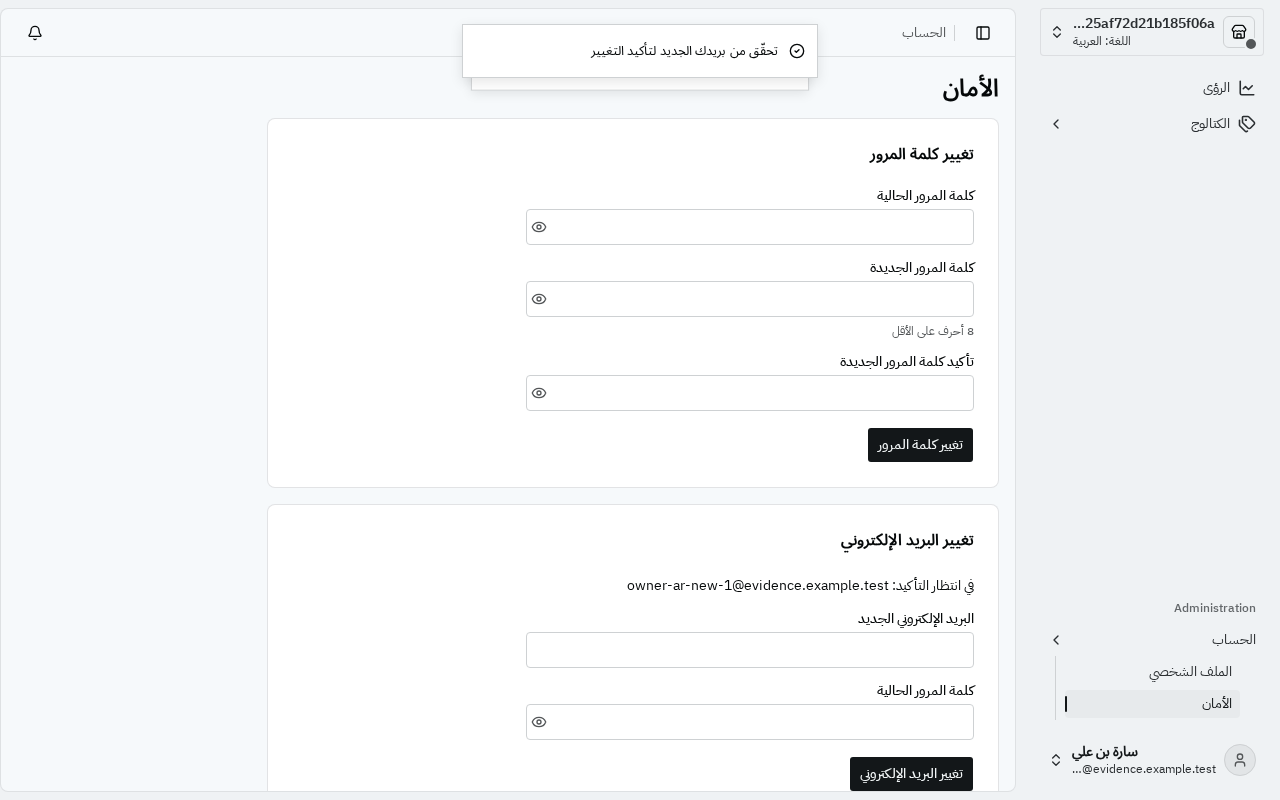
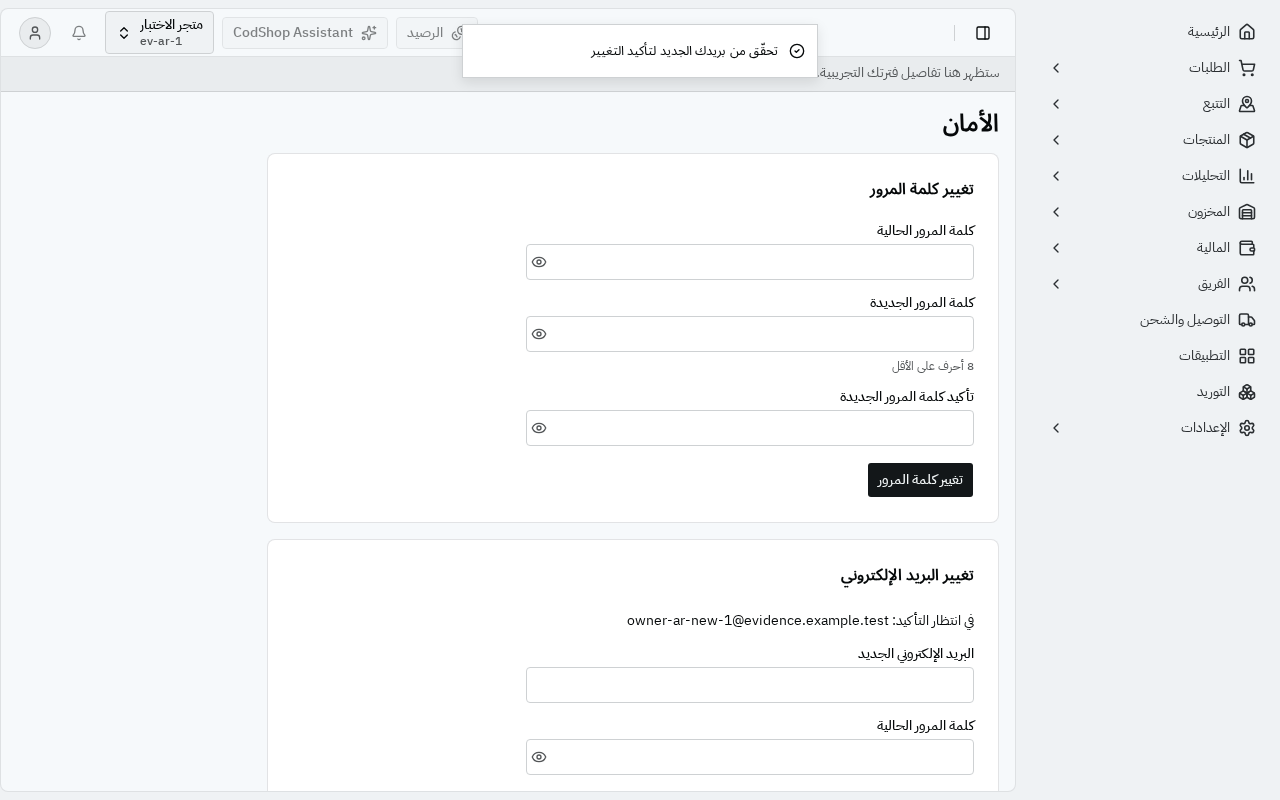
docs(evidence): regenerate P1.S2 in all four variants (#134)

diff --git a/docs/evidence/P1.S2/README.md b/docs/evidence/P1.S2/README.md
@@ -2,7 +2,7 @@
 
 Transcripts, emails and screenshots from a live stack (CLAUDE.md §3a.14), produced by `scripts/evidence/P1.S2.sh`. Data is
 synthetic. Image built from a tree with no uncommitted change outside the evidence folders and browser tests, last
-image-relevant commit `881089ca8faceeaaa433597ecfd0e177207136a9`. Compose project `cod-evidence`; a second api container on port 23101 runs with
+image-relevant commit `f32bd2ae76915919ff1720bf44f3622e6d1bf66b`. Compose project `cod-evidence`; a second api container on port 23101 runs with
 `AUTH_OAUTH_ENABLED=true` against a mock provider (`scripts/evidence/P1.S2-oauth-mock.mjs`).
 
 ## API transcripts
@@ -34,6 +34,7 @@ Every line below is a failing assertion in the script if it does not hold; the s
 - availability retry ar: 429 and failed check both recovered
 - availability retry en: 429 and failed check both recovered
 - verify-link ar: confirmed, token left the URL
+- verify-link en: confirmed, token left the URL
 - otp en: banner gone
 - confirm-email ar: confirmed, token left the URL
 - ar: signed in with the new email and the new password
@@ -46,46 +47,39 @@ Every line below is a failing assertion in the script if it does not hold; the s
 
 ## What was seen in each screenshot (opened by eye, CLAUDE.md §3a.17)
 
+Run of 2026-11-13 (`fix/s4-audit-evidence`, #134): every screen in all four variants, Arabic and English at 1280x800 and 390x844,
+80 shots. All 80 were opened, four variants side by side per screen.
+
 Applies to every shot unless a row says otherwise: the product name is CodShop, the only third-party name is the
 licence-required login footer on the public pages (`Vendure v3.8.1`, ADR 0001), no other product name or logo. Arabic shots are
-`dir=rtl`, labels and text right-aligned, Arabic font loaded; English shots are `dir=ltr`. Layout intact at 1280x800 and at
-390x844 with no horizontal overflow (asserted by the script too).
+`dir=rtl`, labels and text right-aligned, Arabic font loaded; English shots are `dir=ltr`. Layout intact at both sizes with no
+horizontal overflow (asserted by the script too). Signed-in shots use the merchant shell (P1.S5): store switcher with the store
+name and slug in the top bar, no sidebar header or footer, sidebar collapsed to its trigger on mobile.
 
 | File(s) | Seen |
 | --- | --- |
-| `login-{ar,en}-{desktop,mobile}.png` | Welcome text, two fields, forgot link (at the inline end, so the left in Arabic), Sign in, "Create account". No provider button. Footer present. |
-| `forgot-*`, `reset-*` | Stock pages under our brand, translated, footer present. They have no language switch: the language is the browser's saved one. |
+| `login-*` | Welcome text, two fields, forgot link (at the inline end, so the left in Arabic), Sign in, "Create account". No provider button. Footer present. |
+| `forgot-*`, `reset-*` | Stock pages under our brand, translated, footer present. No language switch: the language is the browser's saved one. The long Arabic reset title wraps to two lines on mobile, centred. |
 | `register-1-*` | Three-segment progress, filling from the right in Arabic. Name fields side by side on desktop, stacked on mobile. Password hint translated. |
-| `register-2-*` | Business name, Back and Continue. |
-| `register-3-*` | Store name, address with the `.localhost` suffix, language select, logo picker, Create enabled once available. In Arabic the input is on the left and the suffix to its right, reading `free-1.localhost`, after the fix below. |
-| `register-rate-limited-{ar,en}-desktop.png` | Real 429 from the server: translated "too many checks" message in red, Create greyed out. The script then saw the same value recover with no edit. |
-| `verify-*`, `verify-link-ar-desktop.png` | Title, one sentence, one button: the token is spent only on the click. |
-| `verify-link-done-ar-desktop.png`, `confirm-email-done-{ar,en}-desktop.png` | Success sentence and "Go to dashboard"; the address bar has no query (asserted). |
-| `confirm-email-{ar,en}-desktop.png` | Translated title, sentence, button. |
-| `banner-{ar,en}-{desktop,mobile}.png` | Banner above Home with code field, Verify, and Resend greyed during the cooldown. On mobile the controls wrap to two rows and stay inside the card. |
+| `register-2-*` | Business name, Back and Continue; in Arabic Continue sits on the left. |
+| `register-3-*` | Store name, address with the `.localhost` suffix, "available" in green, language select, logo picker, Create enabled. In Arabic the input is on the left and the suffix to its right, reading `free-1.localhost`. |
+| `register-rate-limited-*` | Real 429 from the server: translated "too many checks" message in red, Create greyed out. Each variant uses its own address (`retry-<lang>-<viewport>-1`). |
+| `verify-*`, `verify-link-*` | Title, one sentence, one button: the token is spent only on the click. |
+| `verify-link-done-*`, `confirm-email-done-*` | Success sentence and "Go to dashboard"; the address bar has no query (asserted). |
+| `confirm-email-*` | Translated title, sentence, button. |
+| `banner-*` | Banner above Home with code field, Verify, and Resend greyed during the cooldown. On mobile the controls wrap and stay inside the card. |
 | `profile-*` | Photo picker, names, phone, read-only email. Banner above, as expected for an unverified account. |
-| `security-*` | Change password and change email blocks. The mobile shot is full-page. |
-| `security-password-changed-{ar,en}-desktop.png` | Translated success toast, fields cleared. |
-| `security-email-pending-{ar,en}-desktop.png` | Toast and "waiting for confirmation" with the new address, which stays left-to-right inside the Arabic sentence. A second toast is partly hidden behind the first: the password toast has not expired yet. |
-| `oauth-on-login-en-desktop.png`, `oauth-on-register-en-desktop.png` | Flag on: "Continue with Google" and "Continue with Facebook" as plain text buttons with no provider logo. |
-| `oauth-on-register-prefilled-en-desktop.png` | Email and names from the mock provider, no password field. |
+| `security-*` | Change password and change email blocks, banner above. The mobile shot is cropped at the viewport. |
+| `security-password-changed-*` | One translated success toast, fields cleared. No banner: the owner verified earlier in the run. On mobile the toast covers the top bar. |
+| `security-email-pending-*` | One toast and "waiting for confirmation" with the new address, which stays left-to-right inside the Arabic sentence. On Arabic mobile the address wraps after `owner-ar-new-`. |
+| `oauth-on-login-*`, `oauth-on-register-*` | Flag on: "Continue with Google" and "Continue with Facebook" as plain text buttons with no provider logo. |
+| `oauth-on-register-prefilled-*` | Email and names from the mock provider, no password field. On mobile the long email is cut at the input's edge (a normal input). |
 
 ### Defects
 
-- **Fixed.** On an Arabic page the address suffix sat to the left of the input and read `localhost.`: the stock stylesheet sets
-  `direction: rtl` on every element, so `dir="ltr"` had no effect. `text-field.tsx` now sets the direction inline on the row and
-  the suffix (commit `7fae30d`), with a browser test.
-- **Fixed in the test helper.** `assertNoPageError` took the verification banner, which has `role="alert"`, for a page error, and
-  seven existing browser tests failed for seeded owners. The helper now skips the banner.
-- **Not fixed, outside the auth screens.** The sidebar group label "Administration" is hard-coded English in the stock dashboard
-  (`nav-main.tsx`), so it shows on Arabic pages. For P1.S5, with the channel switcher.
-- **Not fixed, known.** The channel switcher shows a hex channel code in place of the store name (P1.S5, already deferred by P1.S1).
-- **Data, not a defect.** The English merchant's sidebar reads "Language: Arabic": that is the store language, and the wizard's default was kept.
-
-### Run of 2026-11-09 (final fix wave)
-
-Against the previous run, 45 of the 55 shots are pixel-identical. The other 10 (`banner-*-desktop`, `profile-*-desktop`,
-`security-*-desktop`, `security-password-changed-*-desktop`, `security-email-pending-*-desktop`, Arabic and English) differ only in the
-store switcher at the top of the sidebar, where the random hex channel code of this run's stack shows (the known P1.S5 item above). A
-pixel comparison gave a change box of about 140 by 12 pixels on each; `banner-ar-desktop` and `security-email-pending-en-desktop` were
-opened to confirm it. No screen changed in layout or wording: this fix wave changed no dashboard code.
+- **Resolved since the last run.** The hard-coded "Administration" sidebar label and the hex channel code in the switcher are gone:
+  the merchant shell (P1.S5) hides the sidebar header and shows the store name and slug in the top-bar switcher.
+- **Fixed earlier, still holds.** On an Arabic page the address suffix reads `free-1.localhost` (commit `7fae30d`).
+- **Cosmetic, not fixed.** The Arabic mobile "waiting for confirmation" line breaks the address at the hyphen. Readable; a
+  `break-all`/`dir=ltr` span would keep it whole. Left for the profile owner.
+- **Data, not a defect.** Only one toast shows on the security shots: the script now waits for the previous toast to close.

diff --git a/scripts/evidence/P1.S2-seen.md b/scripts/evidence/P1.S2-seen.md
@@ -1,37 +1,38 @@
 ## What was seen in each screenshot (opened by eye, CLAUDE.md §3a.17)
 
+Run of 2026-11-13 (`fix/s4-audit-evidence`, #134): every screen in all four variants, Arabic and English at 1280x800 and 390x844,
+80 shots. All 80 were opened, four variants side by side per screen.
+
 Applies to every shot unless a row says otherwise: the product name is CodShop, the only third-party name is the
 licence-required login footer on the public pages (`Vendure v3.8.1`, ADR 0001), no other product name or logo. Arabic shots are
-`dir=rtl`, labels and text right-aligned, Arabic font loaded; English shots are `dir=ltr`. Layout intact at 1280x800 and at
-390x844 with no horizontal overflow (asserted by the script too).
+`dir=rtl`, labels and text right-aligned, Arabic font loaded; English shots are `dir=ltr`. Layout intact at both sizes with no
+horizontal overflow (asserted by the script too). Signed-in shots use the merchant shell (P1.S5): store switcher with the store
+name and slug in the top bar, no sidebar header or footer, sidebar collapsed to its trigger on mobile.
 
 | File(s) | Seen |
 | --- | --- |
-| `login-{ar,en}-{desktop,mobile}.png` | Welcome text, two fields, forgot link (at the inline end, so the left in Arabic), Sign in, "Create account". No provider button. Footer present. |
-| `forgot-*`, `reset-*` | Stock pages under our brand, translated, footer present. They have no language switch: the language is the browser's saved one. |
+| `login-*` | Welcome text, two fields, forgot link (at the inline end, so the left in Arabic), Sign in, "Create account". No provider button. Footer present. |
+| `forgot-*`, `reset-*` | Stock pages under our brand, translated, footer present. No language switch: the language is the browser's saved one. The long Arabic reset title wraps to two lines on mobile, centred. |
 | `register-1-*` | Three-segment progress, filling from the right in Arabic. Name fields side by side on desktop, stacked on mobile. Password hint translated. |
-| `register-2-*` | Business name, Back and Continue. |
-| `register-3-*` | Store name, address with the `.localhost` suffix, language select, logo picker, Create enabled once available. In Arabic the input is on the left and the suffix to its right, reading `free-1.localhost`, after the fix below. |
-| `register-rate-limited-{ar,en}-desktop.png` | Real 429 from the server: translated "too many checks" message in red, Create greyed out. The script then saw the same value recover with no edit. |
-| `verify-*`, `verify-link-ar-desktop.png` | Title, one sentence, one button: the token is spent only on the click. |
-| `verify-link-done-ar-desktop.png`, `confirm-email-done-{ar,en}-desktop.png` | Success sentence and "Go to dashboard"; the address bar has no query (asserted). |
-| `confirm-email-{ar,en}-desktop.png` | Translated title, sentence, button. |
-| `banner-{ar,en}-{desktop,mobile}.png` | Banner above Home with code field, Verify, and Resend greyed during the cooldown. On mobile the controls wrap to two rows and stay inside the card. |
+| `register-2-*` | Business name, Back and Continue; in Arabic Continue sits on the left. |
+| `register-3-*` | Store name, address with the `.localhost` suffix, "available" in green, language select, logo picker, Create enabled. In Arabic the input is on the left and the suffix to its right, reading `free-1.localhost`. |
+| `register-rate-limited-*` | Real 429 from the server: translated "too many checks" message in red, Create greyed out. Each variant uses its own address (`retry-<lang>-<viewport>-1`). |
+| `verify-*`, `verify-link-*` | Title, one sentence, one button: the token is spent only on the click. |
+| `verify-link-done-*`, `confirm-email-done-*` | Success sentence and "Go to dashboard"; the address bar has no query (asserted). |
+| `confirm-email-*` | Translated title, sentence, button. |
+| `banner-*` | Banner above Home with code field, Verify, and Resend greyed during the cooldown. On mobile the controls wrap and stay inside the card. |
 | `profile-*` | Photo picker, names, phone, read-only email. Banner above, as expected for an unverified account. |
-| `security-*` | Change password and change email blocks. The mobile shot is full-page. |
-| `security-password-changed-{ar,en}-desktop.png` | Translated success toast, fields cleared. |
-| `security-email-pending-{ar,en}-desktop.png` | Toast and "waiting for confirmation" with the new address, which stays left-to-right inside the Arabic sentence. A second toast is partly hidden behind the first: the password toast has not expired yet. |
-| `oauth-on-login-en-desktop.png`, `oauth-on-register-en-desktop.png` | Flag on: "Continue with Google" and "Continue with Facebook" as plain text buttons with no provider logo. |
-| `oauth-on-register-prefilled-en-desktop.png` | Email and names from the mock provider, no password field. |
+| `security-*` | Change password and change email blocks, banner above. The mobile shot is cropped at the viewport. |
+| `security-password-changed-*` | One translated success toast, fields cleared. No banner: the owner verified earlier in the run. On mobile the toast covers the top bar. |
+| `security-email-pending-*` | One toast and "waiting for confirmation" with the new address, which stays left-to-right inside the Arabic sentence. On Arabic mobile the address wraps after `owner-ar-new-`. |
+| `oauth-on-login-*`, `oauth-on-register-*` | Flag on: "Continue with Google" and "Continue with Facebook" as plain text buttons with no provider logo. |
+| `oauth-on-register-prefilled-*` | Email and names from the mock provider, no password field. On mobile the long email is cut at the input's edge (a normal input). |
 
 ### Defects
 
-- **Fixed.** On an Arabic page the address suffix sat to the left of the input and read `localhost.`: the stock stylesheet sets
-  `direction: rtl` on every element, so `dir="ltr"` had no effect. `text-field.tsx` now sets the direction inline on the row and
-  the suffix (commit `7fae30d`), with a browser test.
-- **Fixed in the test helper.** `assertNoPageError` took the verification banner, which has `role="alert"`, for a page error, and
-  seven existing browser tests failed for seeded owners. The helper now skips the banner.
-- **Not fixed, outside the auth screens.** The sidebar group label "Administration" is hard-coded English in the stock dashboard
-  (`nav-main.tsx`), so it shows on Arabic pages. For P1.S5, with the channel switcher.
-- **Not fixed, known.** The channel switcher shows a hex channel code in place of the store name (P1.S5, already deferred by P1.S1).
-- **Data, not a defect.** The English merchant's sidebar reads "Language: Arabic": that is the store language, and the wizard's default was kept.
+- **Resolved since the last run.** The hard-coded "Administration" sidebar label and the hex channel code in the switcher are gone:
+  the merchant shell (P1.S5) hides the sidebar header and shows the store name and slug in the top-bar switcher.
+- **Fixed earlier, still holds.** On an Arabic page the address suffix reads `free-1.localhost` (commit `7fae30d`).
+- **Cosmetic, not fixed.** The Arabic mobile "waiting for confirmation" line breaks the address at the hyphen. Readable; a
+  `break-all`/`dir=ltr` span would keep it whole. Left for the profile owner.
+- **Data, not a defect.** Only one toast shows on the security shots: the script now waits for the previous toast to close.

diff --git a/docs/evidence/P1.S2/api/login.md b/docs/evidence/P1.S2/api/login.md
@@ -140,7 +140,7 @@ content-type: application/json; charset=utf-8
     "accountStatus": {
       "emailVerified": false,
       "verificationRequired": true,
-      "resendAvailableAt": "2026-11-09T08:26:21.505Z",
+      "resendAvailableAt": "2026-11-13T12:30:03.639Z",
       "pendingEmail": null
     }
   }
@@ -163,8 +163,8 @@ HTTP/1.1 200 OK
 vendure-auth-token: [REDACTED]
 cache-control: no-store
 content-type: application/json; charset=utf-8
-set-cookie: session=[REDACTED]; path=/; expires=Tue, 09 Nov 2027 14:25:28 GMT; samesite=lax; httponly
-set-cookie: session.sig=[REDACTED]; path=/; expires=Tue, 09 Nov 2027 14:25:28 GMT; samesite=lax; httponly
+set-cookie: session=[REDACTED]; path=/; expires=Sat, 13 Nov 2027 18:29:11 GMT; samesite=lax; httponly
+set-cookie: session.sig=[REDACTED]; path=/; expires=Sat, 13 Nov 2027 18:29:11 GMT; samesite=lax; httponly
 
 {
   "errors": [
@@ -205,7 +205,7 @@ set-cookie: session=[REDACTED]; path=/; samesite=lax; httponly
 set-cookie: session.sig=[REDACTED]; path=/; samesite=lax; httponly
 
 {
-  "id": "5",
+  "id": "10",
   "identifier": "api-b-1@evidence.example.test"
 }
 ```
@@ -226,7 +226,7 @@ content-type: application/json; charset=utf-8
 {
   "statusCode": 401,
   "message": "Invalid credentials",
-  "timestamp": "2026-11-09T08:25:28.871Z",
+  "timestamp": "2026-11-13T12:29:11.923Z",
   "path": "/auth/login"
 }
 ```

diff --git a/docs/evidence/P1.S2/api/profile.md b/docs/evidence/P1.S2/api/profile.md
@@ -124,8 +124,8 @@ HTTP/1.1 200 OK
 vendure-auth-token: [REDACTED]
 cache-control: no-store
 content-type: application/json; charset=utf-8
-set-cookie: session=[REDACTED]; path=/; expires=Tue, 09 Nov 2027 14:26:43 GMT; samesite=lax; httponly
-set-cookie: session.sig=[REDACTED]; path=/; expires=Tue, 09 Nov 2027 14:26:43 GMT; samesite=lax; httponly
+set-cookie: session=[REDACTED]; path=/; expires=Sat, 13 Nov 2027 18:30:27 GMT; samesite=lax; httponly
+set-cookie: session.sig=[REDACTED]; path=/; expires=Sat, 13 Nov 2027 18:30:27 GMT; samesite=lax; httponly
 
 {
   "errors": [
@@ -157,13 +157,13 @@ GET http://127.0.0.1:23100/auth/profile
 HTTP/1.1 403 Forbidden
 vendure-auth-token: [REDACTED]
 content-type: application/json; charset=utf-8
-set-cookie: session=[REDACTED]; path=/; expires=Tue, 09 Nov 2027 14:26:43 GMT; samesite=lax; httponly
-set-cookie: session.sig=[REDACTED]; path=/; expires=Tue, 09 Nov 2027 14:26:43 GMT; samesite=lax; httponly
+set-cookie: session=[REDACTED]; path=/; expires=Sat, 13 Nov 2027 18:30:28 GMT; samesite=lax; httponly
+set-cookie: session.sig=[REDACTED]; path=/; expires=Sat, 13 Nov 2027 18:30:28 GMT; samesite=lax; httponly
 
 {
   "statusCode": 403,
   "message": "FORBIDDEN: error.forbidden",
-  "timestamp": "2026-11-09T08:26:43.643Z",
+  "timestamp": "2026-11-13T12:30:28.143Z",
   "path": "/auth/profile"
 }
 ```

diff --git a/docs/evidence/P1.S2/api/verify.md b/docs/evidence/P1.S2/api/verify.md
@@ -23,7 +23,7 @@ content-type: application/json; charset=utf-8
     "accountStatus": {
       "emailVerified": false,
       "verificationRequired": true,
-      "resendAvailableAt": "2026-11-09T08:26:21.505Z",
+      "resendAvailableAt": "2026-11-13T12:30:03.639Z",
       "pendingEmail": null
     }
   }
@@ -41,7 +41,7 @@ content-type: application/json; charset=utf-8
 {
   "statusCode": 404,
   "message": "Cannot GET /auth/verify-email/<VERIFY_TOKEN_A>",
-  "timestamp": "2026-11-09T08:25:29.569Z",
+  "timestamp": "2026-11-13T12:29:12.545Z",
   "path": "/auth/verify-email/<VERIFY_TOKEN_A>"
 }
 ```
@@ -132,7 +132,7 @@ content-type: application/json; charset=utf-8
     "accountStatus": {
       "emailVerified": true,
       "verificationRequired": true,
-      "resendAvailableAt": "2026-11-09T08:26:21.505Z",
+      "resendAvailableAt": "2026-11-13T12:30:03.639Z",
       "pendingEmail": null
     }
   }
@@ -265,8 +265,8 @@ content-type: application/json; charset=utf-8
 {
   "data": {
     "resendEmailVerification": {
-      "sentAt": "2026-11-09T08:26:32.271Z",
-      "nextAllowedAt": "2026-11-09T08:27:32.271Z"
+      "sentAt": "2026-11-13T12:30:15.513Z",
+      "nextAllowedAt": "2026-11-13T12:31:15.513Z"
     }
   }
 }

diff --git a/docs/evidence/P1.S2/api/oauth.md b/docs/evidence/P1.S2/api/oauth.md
@@ -27,7 +27,7 @@ content-type: application/json; charset=utf-8
 GET http://127.0.0.1:23101/auth/oauth/google/start
 
 HTTP/1.1 302 Found
-set-cookie: cod_oauth_binding=[REDACTED]; Max-Age=900; Path=/; Expires=Mon, 09 Nov 2026 08:41:50 GMT; HttpOnly; SameSite=Lax
+set-cookie: cod_oauth_binding=[REDACTED]; Max-Age=900; Path=/; Expires=Fri, 13 Nov 2026 12:45:36 GMT; HttpOnly; SameSite=Lax
 location: http://127.0.0.1:23102/authorize?response_type=code&code_challenge_method=S256&client_id=evidence-google-client&redirect_uri=http%3A%2F%2F127.0.0.1%3A23101%2Fauth%2Foauth%2Fgoogle%2Fcallback&scope=openid+email+profile&state=<OAUTH_STATE>&code_challenge=<OAUTH_CODE_CHALLENGE>
 content-type: text/plain; charset=utf-8
 
@@ -57,7 +57,7 @@ content-type: application/json; charset=utf-8
 {
   "statusCode": 404,
   "message": "Not Found",
-  "timestamp": "2026-11-09T08:26:50.874Z",
+  "timestamp": "2026-11-13T12:30:36.294Z",
   "path": "/auth/oauth/twitter/start"
 }
 ```

diff --git a/docs/evidence/P1.S2/api/password.md b/docs/evidence/P1.S2/api/password.md
@@ -201,8 +201,8 @@ HTTP/1.1 200 OK
 vendure-auth-token: [REDACTED]
 cache-control: no-store
 content-type: application/json; charset=utf-8
-set-cookie: session=[REDACTED]; path=/; expires=Tue, 09 Nov 2027 14:26:36 GMT; samesite=lax; httponly
-set-cookie: session.sig=[REDACTED]; path=/; expires=Tue, 09 Nov 2027 14:26:36 GMT; samesite=lax; httponly
+set-cookie: session=[REDACTED]; path=/; expires=Sat, 13 Nov 2027 18:30:20 GMT; samesite=lax; httponly
+set-cookie: session.sig=[REDACTED]; path=/; expires=Sat, 13 Nov 2027 18:30:20 GMT; samesite=lax; httponly
 
 {
   "errors": [
@@ -330,7 +330,7 @@ set-cookie: session=[REDACTED]; path=/; samesite=lax; httponly
 set-cookie: session.sig=[REDACTED]; path=/; samesite=lax; httponly
 
 {
-  "id": "8",
+  "id": "13",
   "identifier": "api-e-1@evidence.example.test"
 }
 ```

diff --git a/docs/evidence/P1.S2/api/config.md b/docs/evidence/P1.S2/api/config.md
@@ -56,7 +56,7 @@ content-type: application/json; charset=utf-8
 {
   "statusCode": 404,
   "message": "Not Found",
-  "timestamp": "2026-11-09T08:25:21.043Z",
+  "timestamp": "2026-11-13T12:29:03.020Z",
   "path": "/auth/oauth/google/start"
 }
 ```
